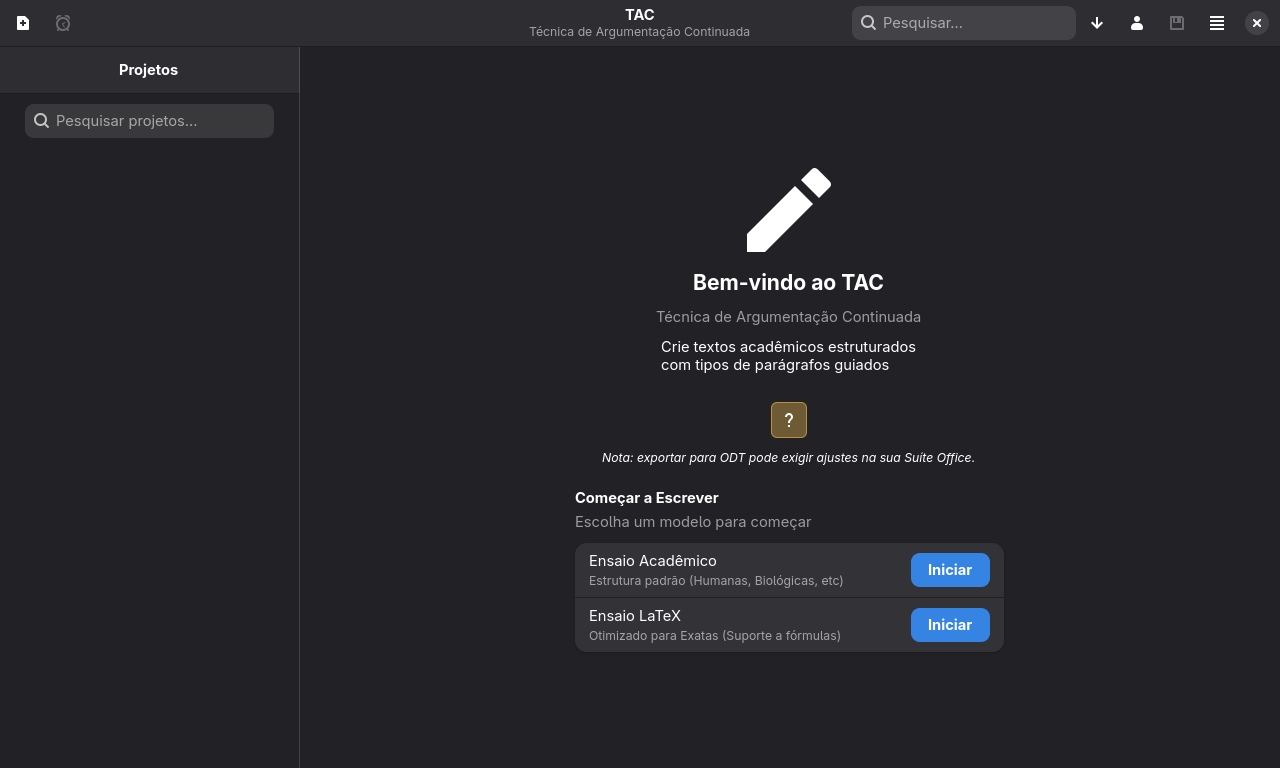
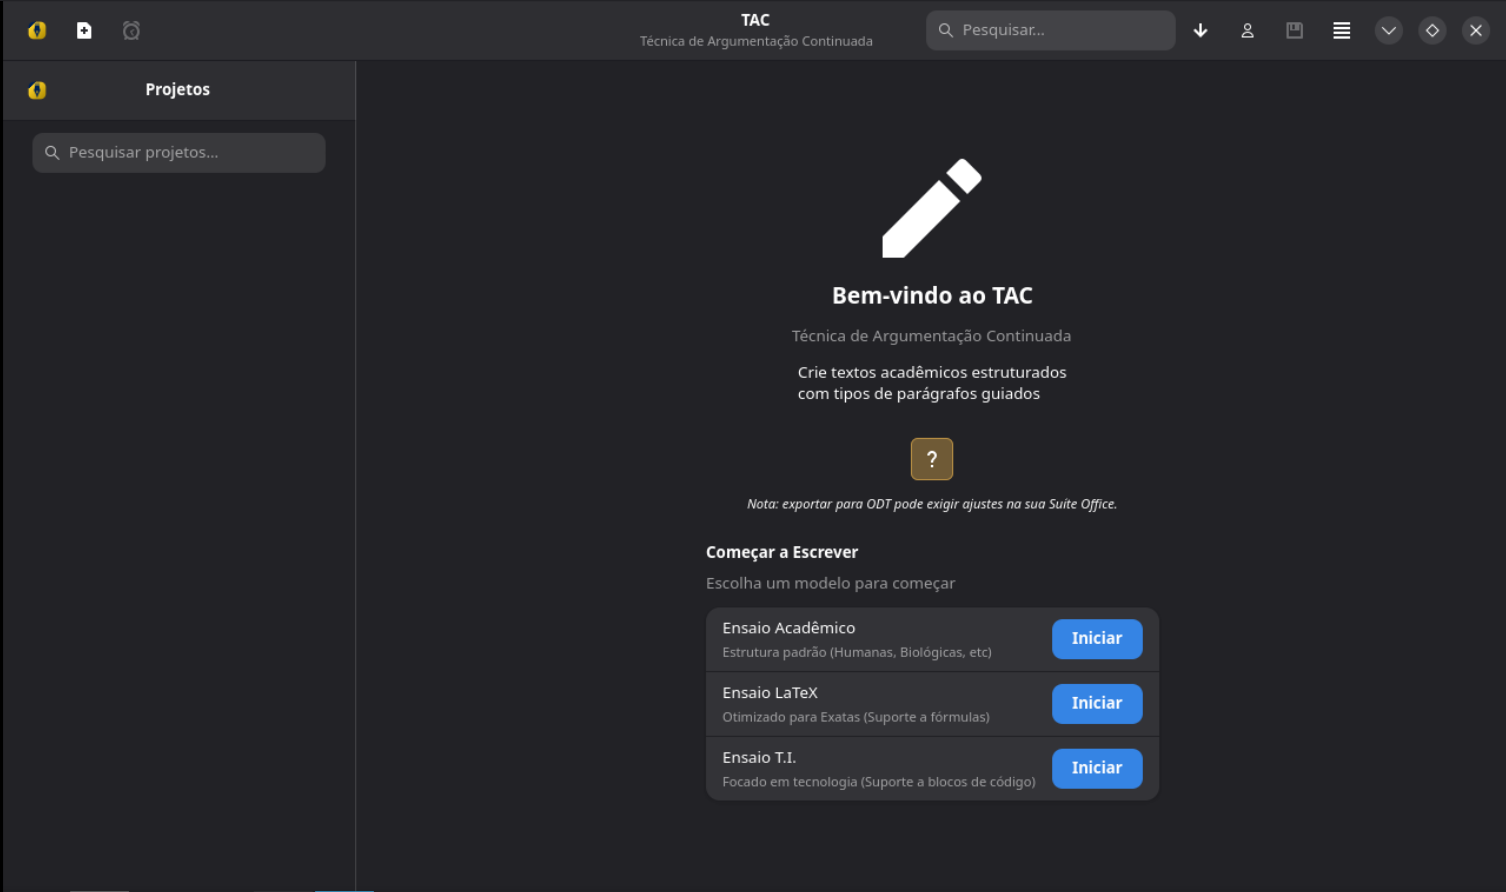
💎 style: new screenshots

diff --git a/usr/share/tac-writer/core/config.py b/usr/share/tac-writer/core/config.py
@@ -13,7 +13,7 @@ class Config:
     """Application configuration manager"""
 
     # Application version and metadata
-    APP_VERSION = "1.21.0"
+    APP_VERSION = "1.21.1"
     APP_NAME = "TAC"
     APP_FULL_NAME = "TAC - Continuous Argumentation Technique"
     APP_DESCRIPTION = "Academic Writing Assistant"
